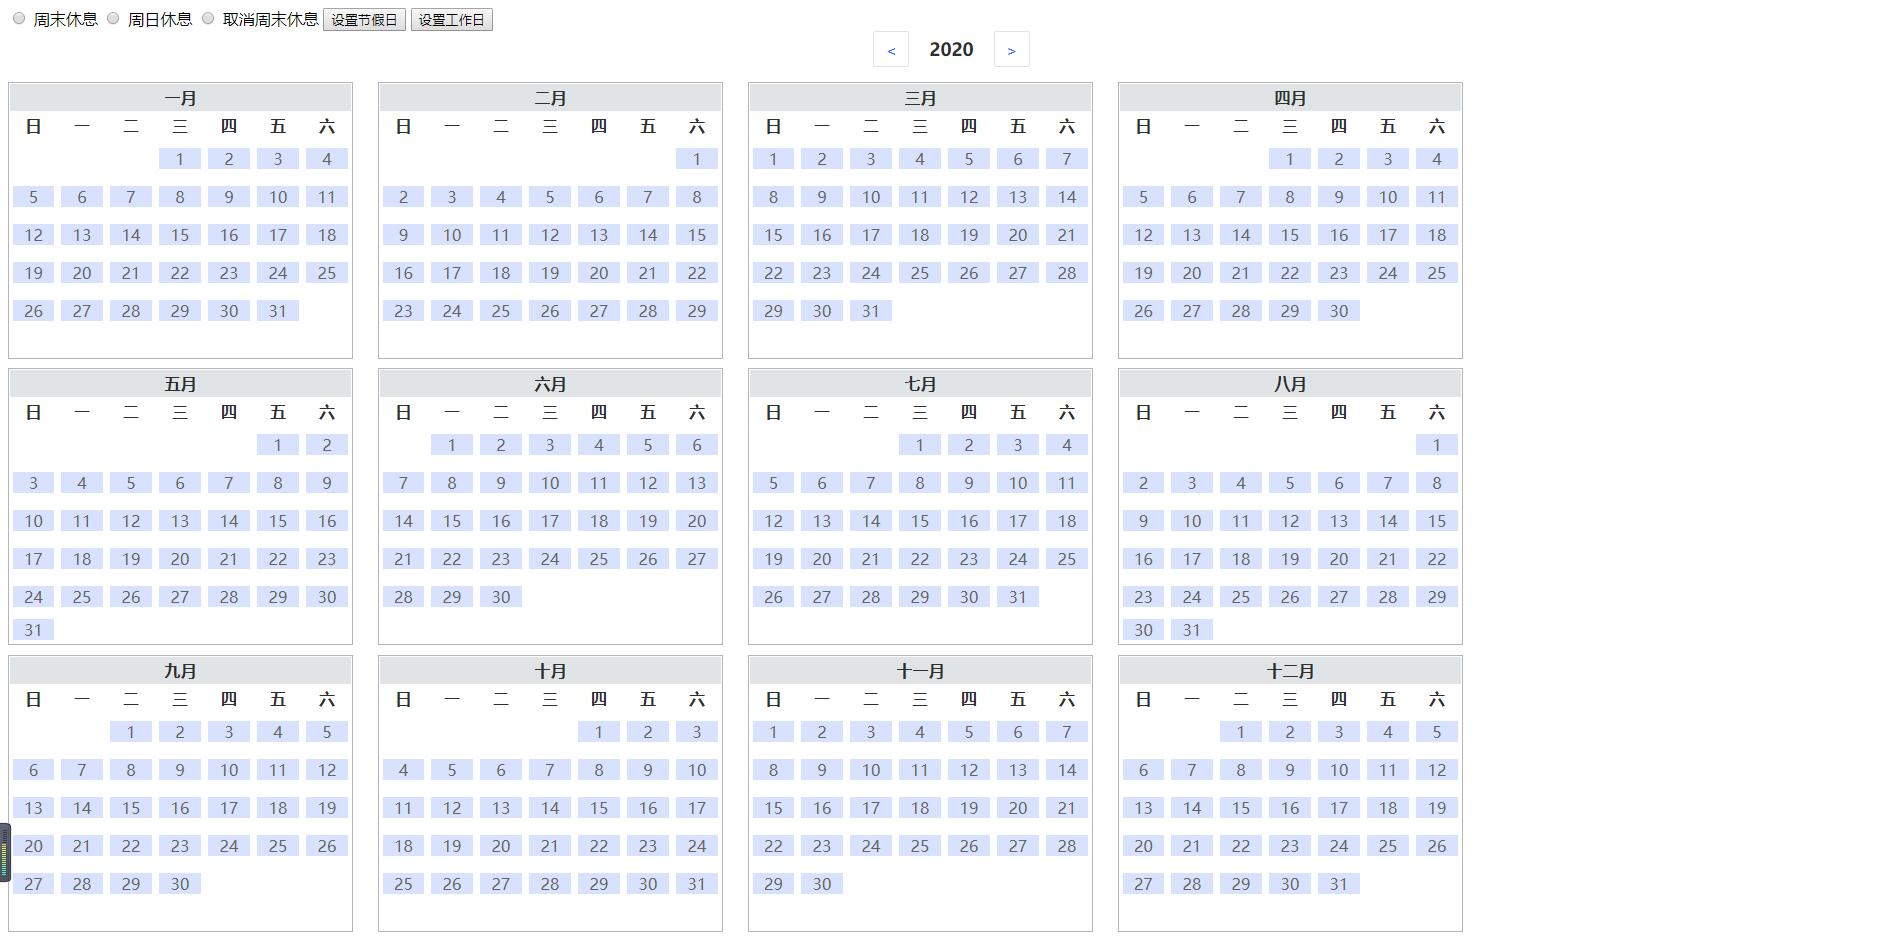
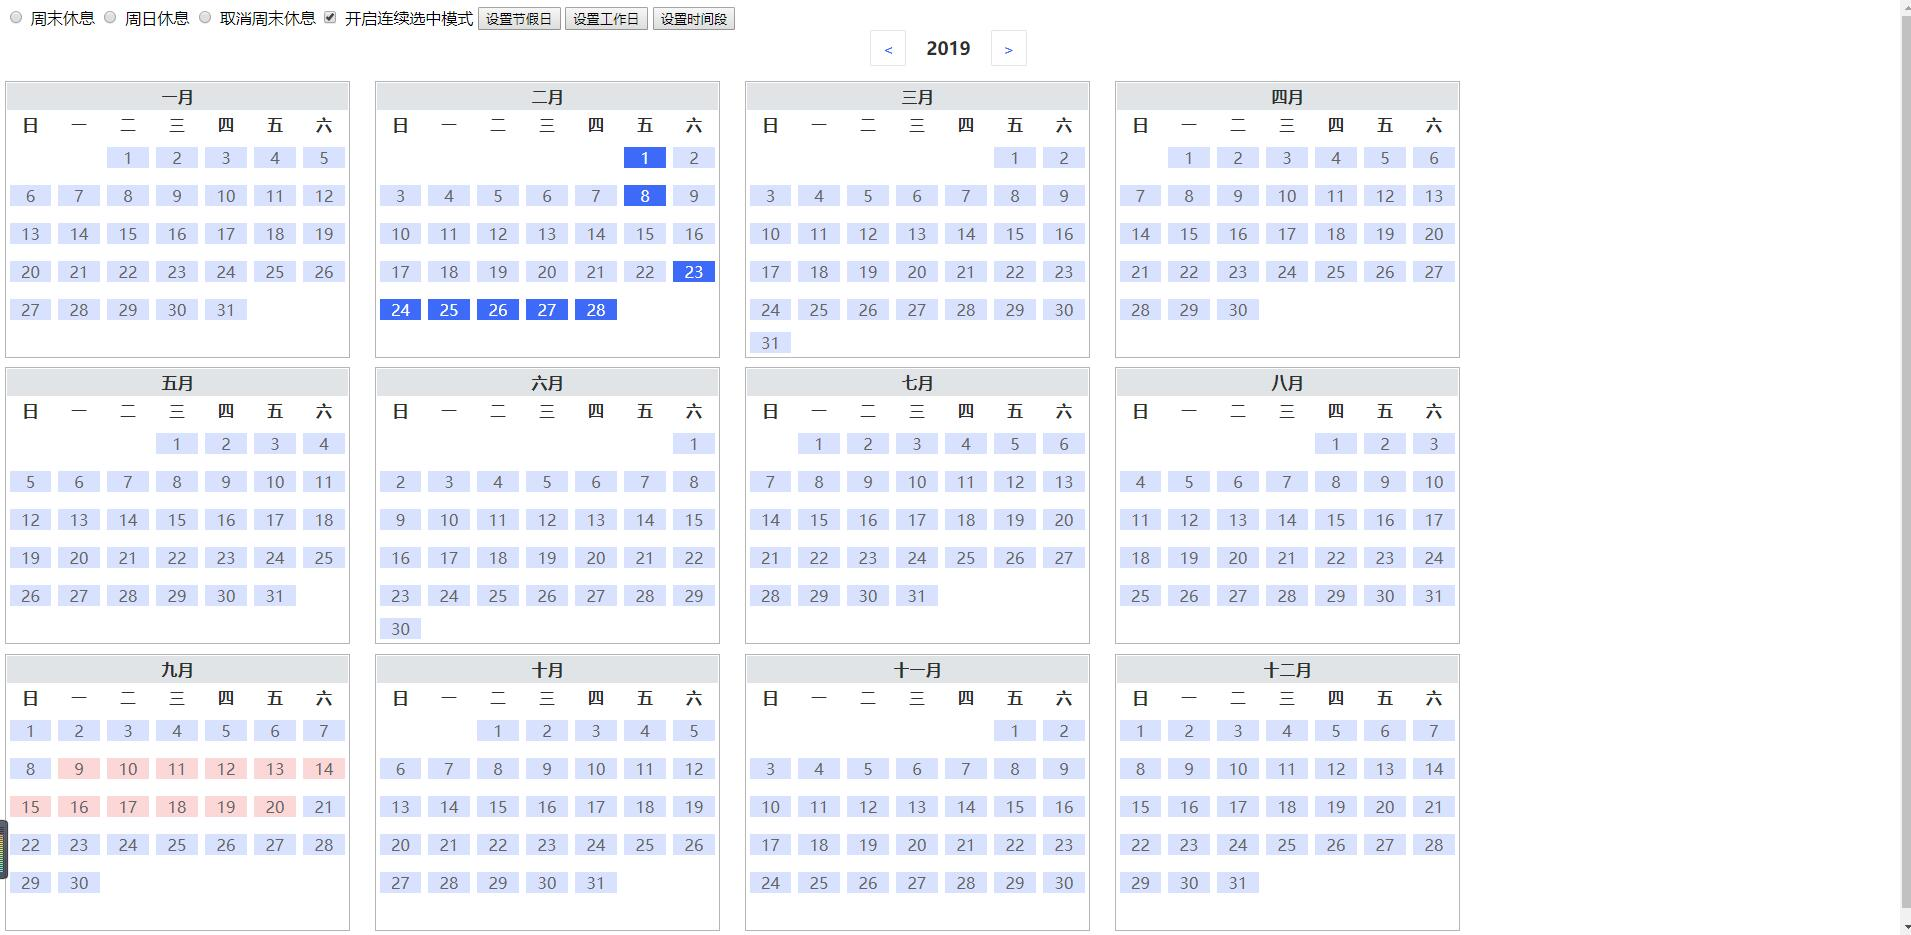
【A】 新增了时间段选择

diff --git a/fullYearPicker.js b/fullYearPicker.js
@@ -3,7 +3,14 @@
     var fullYearPicker_nowSelect = null;
     var fullYearPicker_last = null;
     var _viewer_ = this;
-
+    var isContinuousSelected = false; //连续性选中开关
+    selectedCount = 0; //连续选中计数器
+    twoEleArr = []; //只存开始结束时间数组
+    startToEndDateObj = {
+        startDate:'',
+        endDate:'',
+        selectedArr:[]
+    };
     function tdClass(i, disabledDay, sameMonth, values, dateStr) {
         // var cls = i == 0 || i == 6 ? 'weekend' : '';
         var cls = '';
@@ -20,10 +27,10 @@
     }
 
     function renderMonth(year, month, clear, disabledDay, values) {
-        var chnNumChar = ["一", "二", "三", "四", "五", "六", "七", "八", "九","十","十一","十二"];
+        var chnNumChar = ["一", "二", "三", "四", "五", "六", "七", "八", "九", "十", "十一", "十二"];
         var d = new Date(year, month - 1, 1),
             s = '<table cellpadding="3" cellspacing="1" border="0"' + (clear ? ' class="right"' : '') + '>' +
-            '<tr><th colspan="7" class="head">' + chnNumChar[month-1] + '月</th></tr>' +
+            '<tr><th colspan="7" class="head">' + chnNumChar[month - 1] + '月</th></tr>' +
             '<tr><th class="weekend sunday">日</th><th>一</th><th>二</th><th>三</th><th>四</th><th>五</th><th class="weekend saturday">六</th></tr>';
         var dMonth = month - 1;
         var firstDay = d.getDay(),
@@ -66,6 +73,13 @@
                 $(this).addClass("arrow_box");
                 fullYearPicker_nowSelect = getDateStr(this);
                 _viewer_.data('config').choose(_viewer_.fullYearPicker('getSelected'));
+                setTimeSlot(fullYearPicker_nowSelect);
+                _viewer_.data('config').getStartToEndDate(startToEndDateObj);
+                startToEndDateObj={
+                    startDate:'',
+                    endDate:'',
+                    selectedArr:[]
+                }
                 // if(!$("[date='"+getDateStr(this)+"']").hasClass("selected")){
                 //     fullYearPicker_nowSelect = null;
                 //     //$(this).removeClass("arrow_box");
@@ -76,12 +90,60 @@
             }
         });
     }
+    //改变连续选中模式状态
+    $.fn.changeContinuousSelected = function (state = false) {
+        isContinuousSelected = state;
+    }
+    //获取开始结束时间，将时间段渲染出来
+    function setTimeSlot(selectStr) {
+        if (isContinuousSelected) {
+            selectedCount = selectedCount + 1;
+            twoEleArr.push(selectStr);
+            twoEleArr = Array.from(new Set(twoEleArr));
+            if (selectedCount % 2 == 0) {
+                let startDate = twoEleArr[twoEleArr.length - 2]
+                let endDate = twoEleArr[twoEleArr.length - 1]
+                let between_arr = getBetweenDateStr(startDate, endDate);
+                between_arr.forEach(function (item) {
+                    $("[date='" + item + "']").addClass("selected");
+                });
+                getStartToEndDate(startDate, endDate,between_arr);
+            }
+        }
 
+    }
+    // 获取开始结束日期
+    function getStartToEndDate (startDate, endDate,selectedArr) {
+
+        startToEndDateObj =  {
+            startDate,
+            endDate,
+            selectedArr
+        }
+    }
     //批量选中日期
     $.fn.selectDates = function (dateArray) {
         dateArray.forEach(function (item) {
             $("[date='" + item + "']").addClass("selected");
         });
+    }
+    //根据时间段渲染颜色
+    // dataArr = [{bgColor:red,startDate:'2019-09-09',endDate:'2019-09-20}]
+    window.renderColor4TimeSlot = function(dateArr){
+        dateArr.forEach(function (ele, index) { 
+            let arr = getBetweenDateStr(ele.startDate,ele.endDate);
+            arr.forEach((item, index) => {
+                $("body .fullYearPicker .picker table tr td").each(function (i, dom) {
+                    if ($(dom).attr('date') == item) {
+                        $(dom).find('div').css({
+                            "background-color": `${ele.bgColor}`
+                        });
+                        $(dom).removeClass('selected');
+                    }
+                })
+            });
+         })
+       
     }
     //改变周末的状态(颜色)
     // color 是需要改变的颜色
@@ -222,10 +284,11 @@
                 choose: config.choose,
                 initDate: config.initDate,
                 format: config.format,
-                disable: config.disable
+                disable: config.disable,
+                getStartToEndDate:config.getStartToEndDate
             };
             me.data('config', newConifg);
-            console.log(newConifg)
+            // console.log(newConifg)
             var selYear = '';
             // if (newConifg.yearScale) {
             //     selYear = '<select>';
@@ -251,7 +314,6 @@
                 _viewer_.data('config').disabledDay = '0,1,2,3,4,5,6';
             }
             renderYear(year, me, newConifg.disabledDay, newConifg.value);
-
             if (newConifg.initDate.length > 0) {
                 newConifg.initDate.forEach(function (p1, p2, p3) {
                     if (newConifg.format === 'YYYY-MM-DD') {
@@ -276,7 +338,45 @@
         var thisDate = new Date(year, month, 0); //当天数为0 js自动处理为上一月的最后一天
         return thisDate.getDate();
     }
-
+    /**
+     * @return 返回两个日期之间的所有日期
+     */
+    function getBetweenDateStr(start, end) {
+        let result = [];
+        if (start > end) {
+            let temp_date = '';
+            temp_date = end;
+            end = start;
+            start = temp_date;
+        }
+        let beginDay = start.split("-");
+        let endDay = end.split("-");
+        let diffDay = new Date();
+        let dateList = new Array;
+        let i = 0;
+        diffDay.setDate(beginDay[2]);
+        diffDay.setMonth(beginDay[1] - 1);
+        diffDay.setFullYear(beginDay[0]);
+        result.push(start);
+        while (i == 0) {
+            var countDay = diffDay.getTime() + 24 * 60 * 60 * 1000;
+            diffDay.setTime(countDay);
+            dateList[2] = diffDay.getDate();
+            dateList[1] = diffDay.getMonth() + 1;
+            dateList[0] = diffDay.getFullYear();
+            if (String(dateList[1]).length == 1) {
+                dateList[1] = "0" + dateList[1]
+            };
+            if (String(dateList[2]).length == 1) {
+                dateList[2] = "0" + dateList[2]
+            };
+            result.push(dateList[0] + "-" + dateList[1] + "-" + dateList[2]);
+            if (dateList[0] == endDay[0] && dateList[1] == endDay[1] && dateList[2] == endDay[2]) {
+                i = 1;
+            }
+        };
+        return result;
+    };
     //上下左右选中
     function selectDay(type, del) {
         var day = Number(fullYearPicker_nowSelect.split("-")[2]);
@@ -335,5 +435,51 @@
             }
         }
     }
+    //监听键盘上下左右  fullYearPicker_nowSelect
+
+    document.onkeydown = function (event) {
+        if (_viewer_.data('config').disabledDay !== "") {
+            return;
+        }
+        if (fullYearPicker_nowSelect === null) {
+            return
+        };
+        var e = event || window.event || arguments.callee.caller.arguments[0];
+        if (e && e.keyCode === 38 || e && e.keyCode === 37) { //上,左
+            //38=上键，37=左键
+            //alert(fullYearPicker_nowSelect)
+            //if(!e.ctrlKey){
+            if (e.keyCode === 38) { //up
+                selectDay(38, true);
+            } else if (e && e.keyCode === 37) {
+                selectDay(37, true);
+            }
+            // }else{
+            //     //组合键
+            //     if (e.keyCode === 38 && e.ctrlKey) {//up
+            //         selectDay(38,true);
+            //     } else if (e && e.keyCode === 37 && e.ctrlKey) {
+            //         selectDay(37,true);
+            //     }
+            // }
+        }
+        if (e && e.keyCode === 40 || e && e.keyCode === 39) { //下,右
+            //40=下键，39=右键
+            //if(!e.ctrlKey){
+            if (e.keyCode === 40) { //up
+                selectDay(40, true);
+            } else if (e && e.keyCode === 39) {
+                selectDay(39, true);
+            }
+            // }else{
+            //     //组合键
+            //     if (e.keyCode === 40 && e.ctrlKey) {//up
+            //         selectDay(40,true);
+            //     } else if (e && e.keyCode === 39 && e.ctrlKey) {
+            //         selectDay(39,true);
+            //     }
+            // }
+        }
+    };
 
 })($, window);

diff --git a/index.html b/index.html
@@ -2,11 +2,11 @@
 <html lang="en">
 
     <head>
-        <meta charset="UTF-8">
-        <meta name="viewport" content="width=device-width, initial-scale=1.0">
-        <meta http-equiv="X-UA-Compatible" content="ie=edge">
+        <meta charset="UTF-8" />
+        <meta name="viewport" content="width=device-width, initial-scale=1.0" />
+        <meta http-equiv="X-UA-Compatible" content="ie=edge" />
         <title>Date Demo</title>
-        <link href="./datePicker.css" type="text/css" rel="stylesheet">
+        <link href="./datePicker.css" type="text/css" rel="stylesheet" />
         <script src="./jquery.js"></script>
         <script src="./fullYearPicker.js"></script>
     </head>
@@ -15,29 +15,45 @@
         <input type="radio" name="datePicker" value="1" /> 周末休息
         <input type="radio" name="datePicker" value="2" /> 周日休息
         <input type="radio" name="datePicker" value="3" /> 取消周末休息
+        <input type="checkbox" id="box" /> 开启连续选中模式
         <button onclick="setHolidays(1)">设置节假日</button>
         <button onclick="setHolidays(2)">设置工作日</button>
+        <button onclick="renderTimeSlot()">
+            设置时间段
+        </button>
         <div id="datePicker"></div>
     </body>
     <script>
-        $('#datePicker').fullYearPicker({
+        let isContinuousSelected = false;
+        $("#datePicker").fullYearPicker({
             disable: false, //只读
-            year: '2019', //指定年份
+            year: "2019", //指定年份
             initDate: [], //初始化选中日期
             yearScale: {
                 min: 1949,
                 max: 2100
             }, //初始化日历范围
             format: "YYYY-MM-DD", //日期格式化  YYYY-MM-DD  YYYY-M-D
-            cellClick: function (dateStr, isDisabled) { //当前选中日期回调函数
+            cellClick: function (dateStr, isDisabled) {
+                //当前选中日期回调函数
             },
-            choose: function (dateArr) { //实时获取所有选中的日期的回调函数
-                window.dateArr = dateArr;
+            choose: function (dateArr) {
+                //实时获取所有选中的日期的回调函数
+                // console.log(dateArr, "dateArr");
+            },
+            getStartToEndDate: function (obj) {
+                console.log(obj, "obj");
             }
-        })
-        $('input[name=datePicker]').on('change', function(){
-            let val = Number($('input[name=datePicker]:checked').val());
-            console.log(val)
+        });
+        $("#box").on("click", function () {
+            $("#box").is(":checked") ?
+                (isContinuousSelected = true) :
+                (isContinuousSelected = false);
+            $("#datePicker").changeContinuousSelected(isContinuousSelected);
+        });
+        $("input[name=datePicker]").on("change", function () {
+            let val = Number($("input[name=datePicker]:checked").val());
+            console.log(val);
             switch (val) {
                 case 1:
                     setWeekendWork("#fcd7d8");
@@ -51,16 +67,26 @@
                 default:
                     break;
             }
-        })
-        function setHolidays(type){
-            switch(type){
+        });
+
+        function setHolidays(type) {
+            switch (type) {
                 case 1:
-                setColor4Date(window.dateArr, ['#d8e1fe']);
-                break;
+                    setColor4Date(window.dateArr, ["#d8e1fe"]);
+                    break;
                 case 2:
-                setColor4Date(window.dateArr, ['#fcd7d8']);
-                break;
+                    setColor4Date(window.dateArr, ["#fcd7d8"]);
+                    break;
             }
+        }
+
+        function renderTimeSlot() {
+            let arr = [{
+                bgColor: "#fcd7d8",
+                startDate: "2019-09-09",
+                endDate: "2019-09-20"
+            }];
+            window.renderColor4TimeSlot(arr);
         }
     </script>
 

diff --git a/README.md b/README.md
@@ -41,3 +41,40 @@ setColor4Date(dateArr,colorArr);
 //dateTypeArr [{ bgColor:red,type:1,date:['2019-1-1','2019-1-2']}]
 setColor4DateType(dateTypeArr)
 ```
+## 是否开启选择时间段模式
+```javascript
+// isContinuousSelected -true 开启 - false关闭 默认关闭
+$("#datePicker").changeContinuousSelected(isContinuousSelected);
+
+```
+
+## 获取选择时间段的开始时间和结束时间
+```
+//若没有开启时间段模式，则无法得到该值
+ $("#datePicker").fullYearPicker({
+            disable: false, //只读
+            year: "2019", //指定年份
+            initDate: [], //初始化选中日期
+            yearScale: {
+                min: 1949,
+                max: 2100
+            }, //初始化日历范围
+            format: "YYYY-MM-DD", //日期格式化  YYYY-MM-DD  YYYY-M-D
+            cellClick: function (dateStr, isDisabled) {
+                //当前选中日期回调函数
+            },
+            choose: function (dateArr) {
+                //实时获取所有选中的日期的回调函数
+                // console.log(dateArr, "dateArr");
+            },
+            getStartToEndDate: function (obj) {
+                //获取选择时间段的开始时间和结束时间
+                console.log(obj, "obj");
+            }
+        });
+```
+## 按照时间段渲染颜色
+```
+//arr = [{bgColor: "#fcd7d8",startDate: "2019-09-09",endDate: "2019-09-20"}];
+window.renderColor4TimeSlot(arr);
+```
